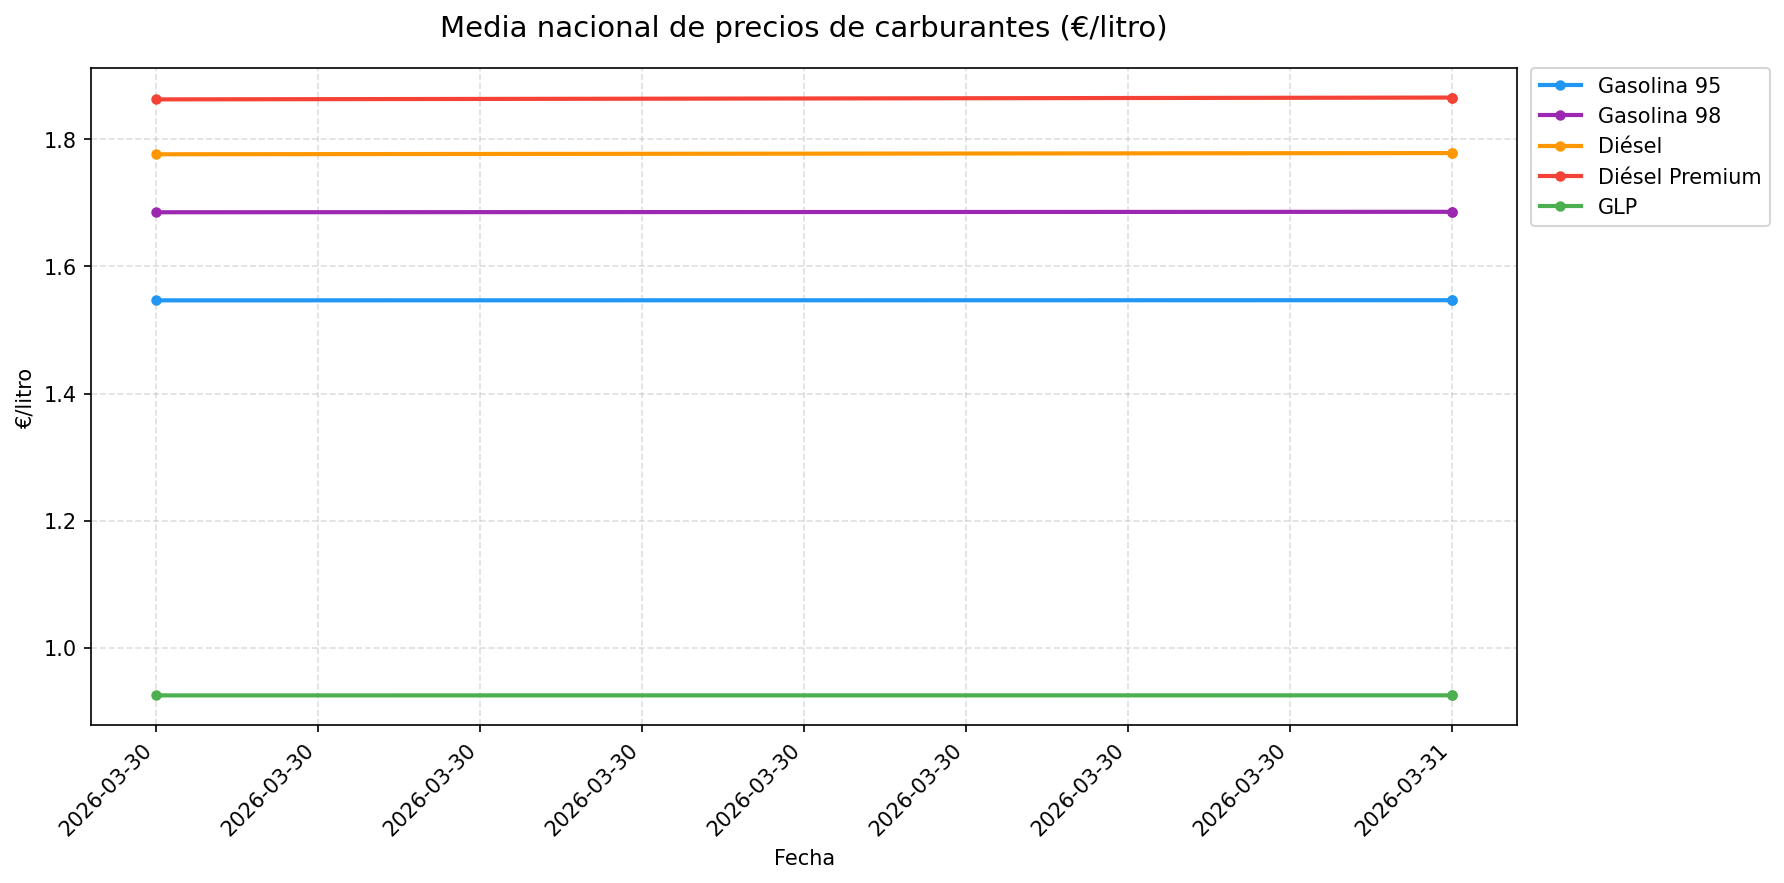
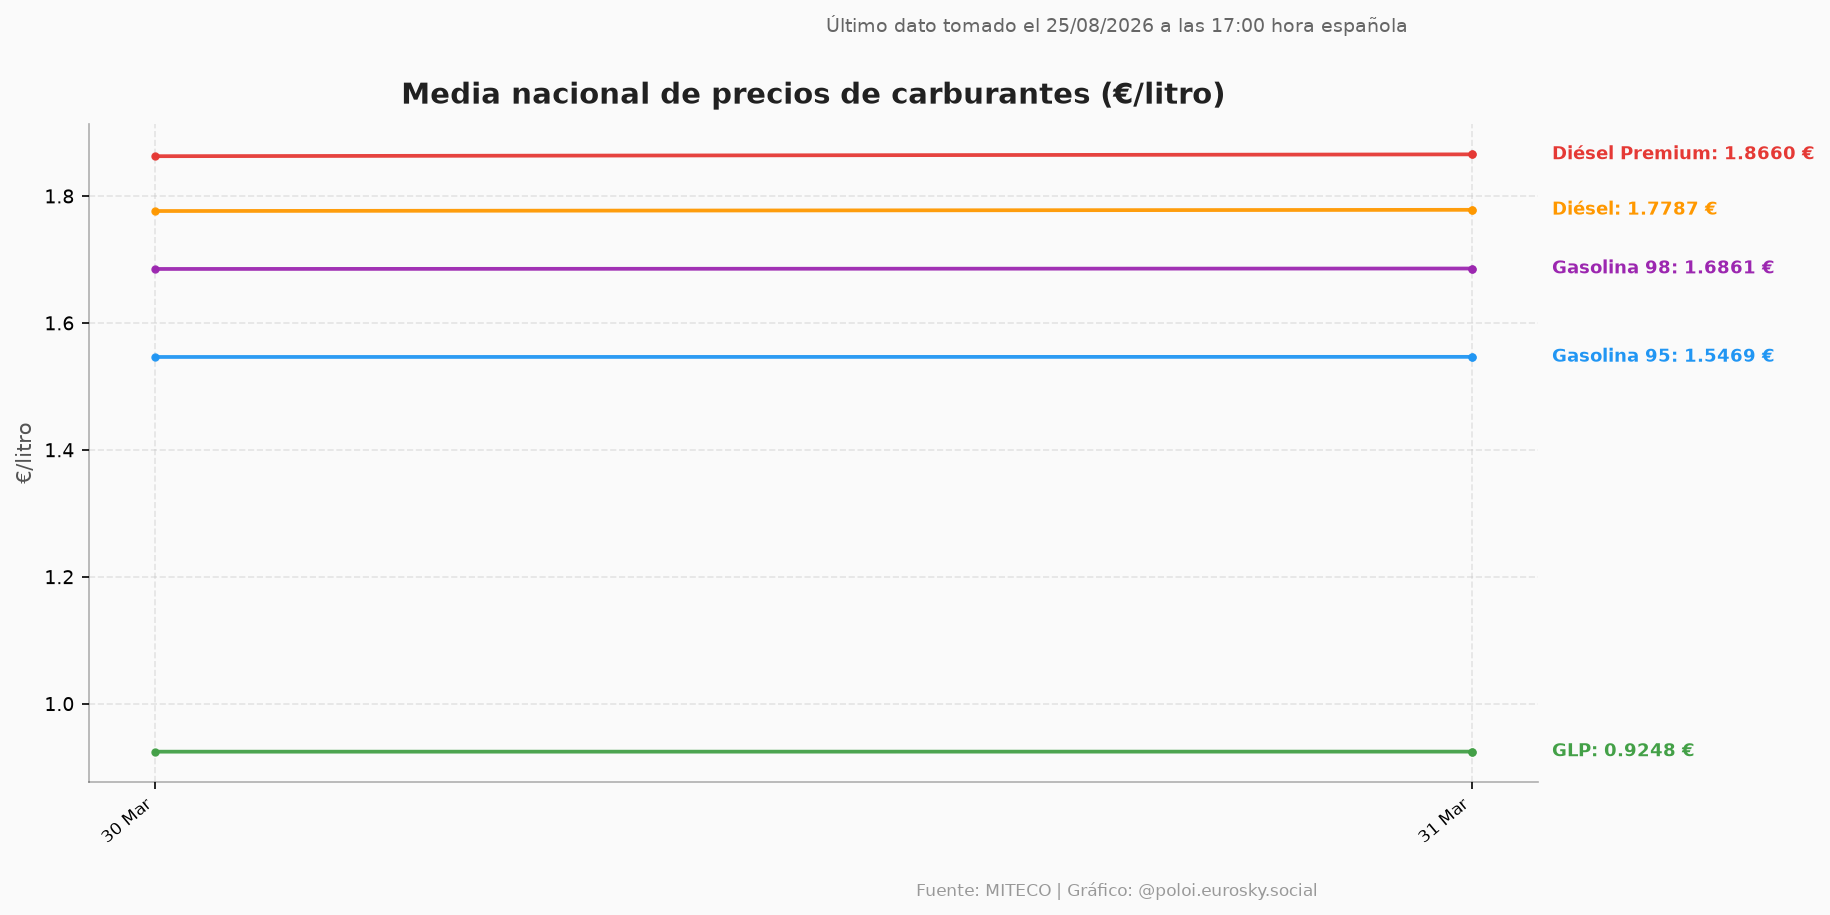
Mejora diseño gráfica: eje X inteligente, etiquetas sin solapamiento
- Eje X adapta el intervalo de ticks al rango de fechas acumuladas
  (diario ≤14d, semanal ≤90d, quincenal ≤365d, mensual >365d)
- Etiquetas de precio en margen derecho con transform mixto (no se
  salen del PNG ni se solapan entre sí con algoritmo anti-colisión)
- Añade fecha al subtítulo: "Último dato tomado el DD/MM/YYYY a las HH:MM"
- Fondo #FAFAFA, spines superiores/derechos ocultos, grid más suave

https://claude.ai/code/session_01CEQVUunWLDaMwWp45LKj1L

diff --git a/fetch_prices.py b/fetch_prices.py
@@ -121,8 +121,10 @@ def generate_chart() -> None:
     try:
         from zoneinfo import ZoneInfo
         now_spain = datetime.now(ZoneInfo("Europe/Madrid"))
-    except ImportError:
+    except (ImportError, KeyError):
         now_spain = datetime.now()
+
+    run_date_str = now_spain.strftime("%d/%m/%Y")
     run_time_str = now_spain.strftime("%H:%M")
 
     df = pd.read_csv(CSV_FILE, parse_dates=["Fecha"])
@@ -139,12 +141,17 @@ def generate_chart() -> None:
         "Gasolina 95": "#2196F3",
         "Gasolina 98": "#9C27B0",
         "Diésel": "#FF9800",
-        "Diésel Premium": "#F44336",
-        "GLP": "#4CAF50",
+        "Diésel Premium": "#E53935",
+        "GLP": "#43A047",
     }
 
-    fig, ax = plt.subplots(figsize=(13, 6))
+    fig, ax = plt.subplots(figsize=(15, 6))
+    fig.patch.set_facecolor("#FAFAFA")
+    ax.set_facecolor("#FAFAFA")
 
+    date_range_days = (df["Fecha"].max() - df["Fecha"].min()).days
+
+    endpoints = []
     for col in available:
         series = df[["Fecha", col]].dropna()
         if series.empty:
@@ -153,47 +160,108 @@ def generate_chart() -> None:
             series["Fecha"],
             series[col],
             marker="o",
-            markersize=4,
-            linewidth=2,
+            markersize=3,
+            linewidth=1.8,
             color=colors.get(col),
+            alpha=0.95,
         )
-        last_x = series["Fecha"].iloc[-1]
-        last_y = series[col].iloc[-1]
-        ax.annotate(
-            f"{col}: {last_y:.4f} €",
-            xy=(last_x, last_y),
-            xytext=(8, 0),
-            textcoords="offset points",
+        endpoints.append({
+            "col": col,
+            "x": series["Fecha"].iloc[-1],
+            "y": series[col].iloc[-1],
+            "label_y": series[col].iloc[-1],
+            "color": colors.get(col),
+        })
+
+    # Anti-overlap: spread labels that are too close
+    y_vals = [e["y"] for e in endpoints]
+    y_range = max(y_vals) - min(y_vals) if len(y_vals) > 1 else 1.0
+    min_gap = y_range * 0.07
+    endpoints.sort(key=lambda e: e["label_y"])
+    for i in range(1, len(endpoints)):
+        if endpoints[i]["label_y"] - endpoints[i - 1]["label_y"] < min_gap:
+            endpoints[i]["label_y"] = endpoints[i - 1]["label_y"] + min_gap
+
+    import matplotlib.transforms as _transforms
+    blended = _transforms.blended_transform_factory(ax.transAxes, ax.transData)
+
+    for ep in endpoints:
+        needs_arrow = abs(ep["label_y"] - ep["y"]) > min_gap * 0.3
+        # Draw label just outside the right edge of the axes
+        ax.text(
+            1.01, ep["label_y"],
+            f"{ep['col']}: {ep['y']:.4f} €",
+            transform=blended,
             va="center",
             ha="left",
-            color=colors.get(col),
+            color=ep["color"],
             fontsize=8.5,
             fontweight="bold",
+            clip_on=False,
         )
+        # Draw a subtle connector line when label was shifted
+        if needs_arrow:
+            ax.annotate(
+                "",
+                xy=(ep["x"], ep["y"]),
+                xytext=(ep["x"], ep["label_y"]),
+                textcoords="data",
+                annotation_clip=False,
+                arrowprops=dict(arrowstyle="-", color=ep["color"], alpha=0.3, lw=0.7),
+            )
+
+    # X-axis: pick tick interval based on date range
+    if date_range_days <= 14:
+        ax.xaxis.set_major_locator(mdates.DayLocator())
+        ax.xaxis.set_major_formatter(mdates.DateFormatter("%d %b"))
+    elif date_range_days <= 90:
+        ax.xaxis.set_major_locator(mdates.WeekdayLocator(byweekday=0, interval=1))
+        ax.xaxis.set_major_formatter(mdates.DateFormatter("%d %b"))
+    elif date_range_days <= 365:
+        ax.xaxis.set_major_locator(mdates.WeekdayLocator(byweekday=0, interval=2))
+        ax.xaxis.set_major_formatter(mdates.DateFormatter("%d %b '%y"))
+    else:
+        ax.xaxis.set_major_locator(mdates.MonthLocator())
+        ax.xaxis.set_major_formatter(mdates.DateFormatter("%b '%y"))
+
+    fig.autofmt_xdate(rotation=40, ha="right")
+    ax.tick_params(axis="x", labelsize=8)
+    ax.tick_params(axis="y", labelsize=9)
 
     ax.set_title(
-        f"Media nacional de precios de carburantes (€/litro)\n"
-        f"Último dato tomado a las {run_time_str} hora española",
-        fontsize=13,
-        pad=15,
+        "Media nacional de precios de carburantes (€/litro)",
+        fontsize=14,
+        fontweight="bold",
+        pad=10,
+        color="#212121",
     )
-    ax.set_xlabel("Fecha")
-    ax.set_ylabel("€/litro")
-    ax.xaxis.set_major_formatter(mdates.DateFormatter("%Y-%m-%d"))
-    ax.xaxis.set_major_locator(mdates.AutoDateLocator())
-    fig.autofmt_xdate(rotation=45)
-    ax.grid(True, linestyle="--", alpha=0.4)
+    ax.set_xlabel("")
+    ax.set_ylabel("€/litro", fontsize=10, color="#555555")
 
+    ax.grid(True, linestyle="--", alpha=0.35, color="#BBBBBB")
+    ax.spines["top"].set_visible(False)
+    ax.spines["right"].set_visible(False)
+    ax.spines["left"].set_alpha(0.3)
+    ax.spines["bottom"].set_alpha(0.3)
+
+    fig.text(
+        0.5, 0.97,
+        f"Último dato tomado el {run_date_str} a las {run_time_str} hora española",
+        ha="center",
+        fontsize=9,
+        color="#666666",
+        transform=fig.transFigure,
+    )
     fig.text(
         0.5, 0.01,
         "Fuente: MITECO | Gráfico: @poloi.eurosky.social",
         ha="center",
         fontsize=8,
-        color="#888888",
+        color="#999999",
     )
 
-    plt.tight_layout(rect=[0, 0.04, 1, 1])
-    plt.savefig(CHART_FILE, dpi=150, bbox_inches="tight")
+    plt.tight_layout(rect=[0, 0.04, 0.82, 0.94])
+    plt.savefig(CHART_FILE, dpi=150, bbox_inches="tight", facecolor=fig.get_facecolor())
     plt.close(fig)
     print(f"[Chart] Gráfica guardada en {CHART_FILE}")
 
